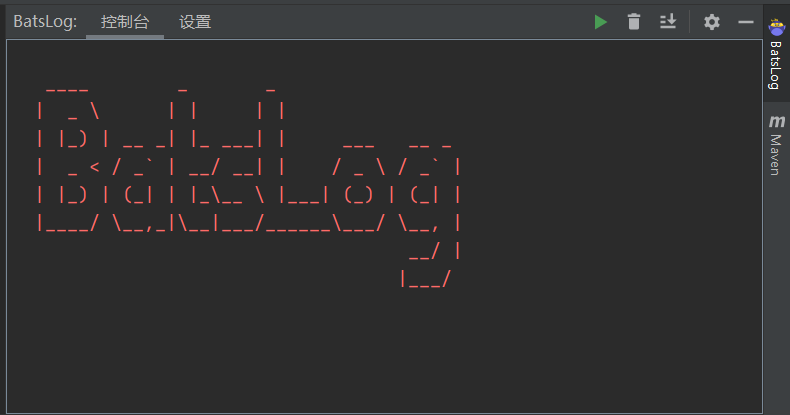
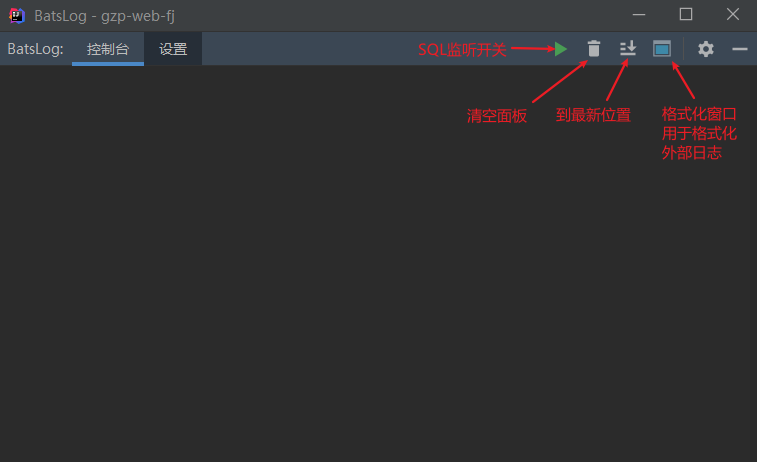
更新文档

diff --git a/README.md b/README.md
@@ -6,18 +6,22 @@
 2. 自动监听读取打印的SQL日志，并格式化输出
 3. 直接复制格式化后的SQL到剪贴板（可以自己设置快捷键）
 4. 支持多种数据库（MySQL、Oracle、SqlServer……）
-5. 期待你点击[这里](https://github.com/PerccyKing/batslog/issues)提出需求
+5. 支持外部日志格式化
+6. 期待你点击[这里](https://github.com/PerccyKing/batslog/issues)提出需求
+
 
 ## 功能展示
+### 主界面
+![主界面](./screenshot/主界面.png)
 ### 中文支持
-![在这里插入图片描述](https://img-blog.csdnimg.cn/2020113016074874.png?x-oss-process=image/watermark,type_ZmFuZ3poZW5naGVpdGk,shadow_10,text_aHR0cHM6Ly9ibG9nLmNzZG4ubmV0L3FxXzI5NjAyNTc3,size_16,color_FFFFFF,t_70)
+![中文支持](./screenshot/中文支持.png)
 ### 复制SQL功能
-![在这里插入图片描述](https://img-blog.csdnimg.cn/20201130171818996.gif)
+![复制SQL](./screenshot/复制SQL.gif)
 
 ### 自动监听功能
-![在这里插入图片描述](https://img-blog.csdnimg.cn/20201130172540631.gif)
+![listen1](./screenshot/listen1.gif)
 
-![在这里插入图片描述](https://img-blog.csdnimg.cn/20201130171904631.gif)
+![listen2](./screenshot/listen2.gif)
 ## 其他
 请将你遇到的问题写在[这里](https://github.com/PerccyKing/batslog/issues)，我将尽力为你解决
 
